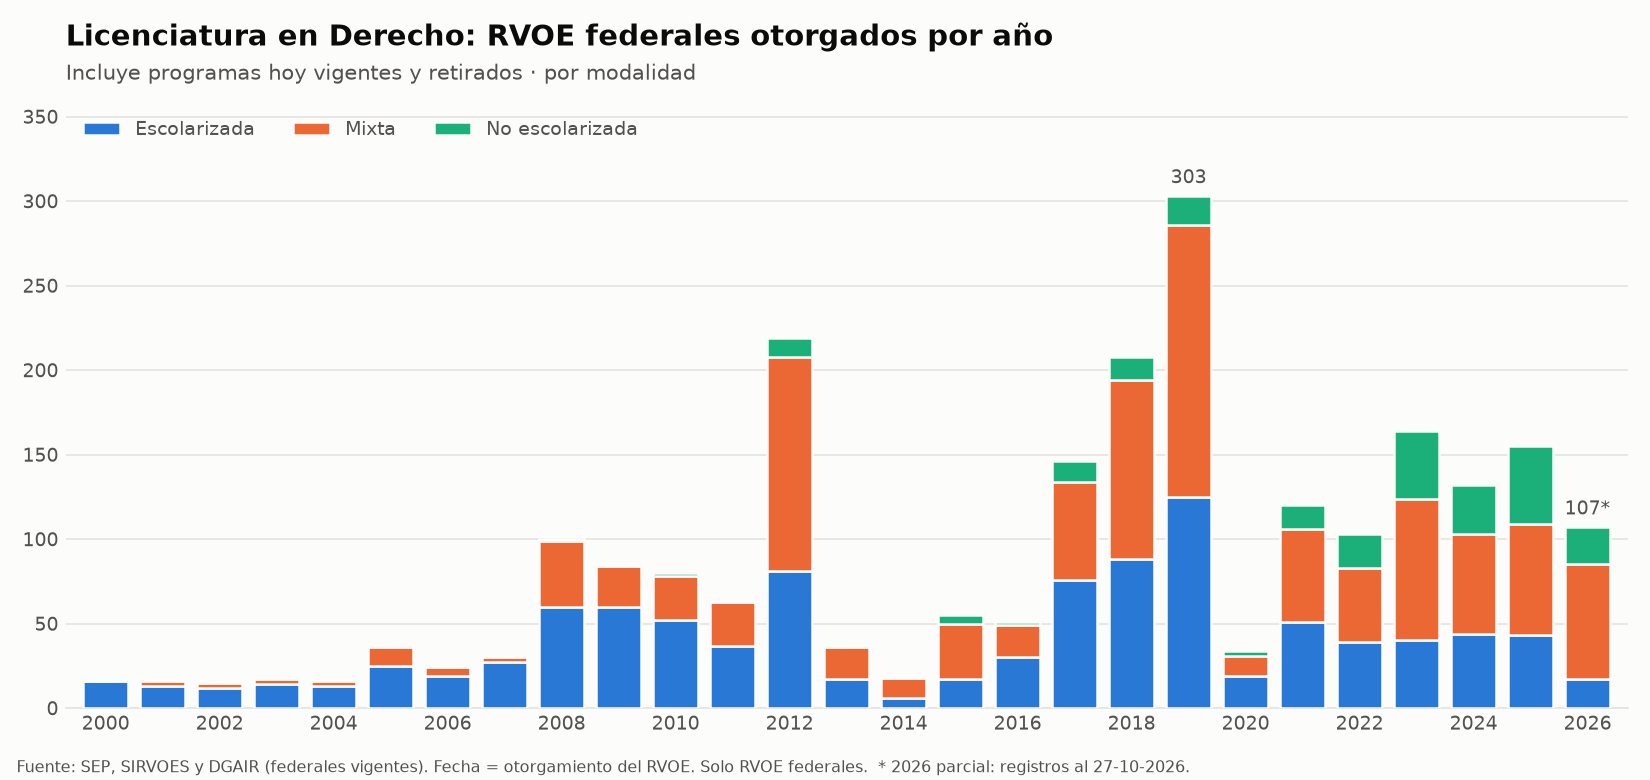
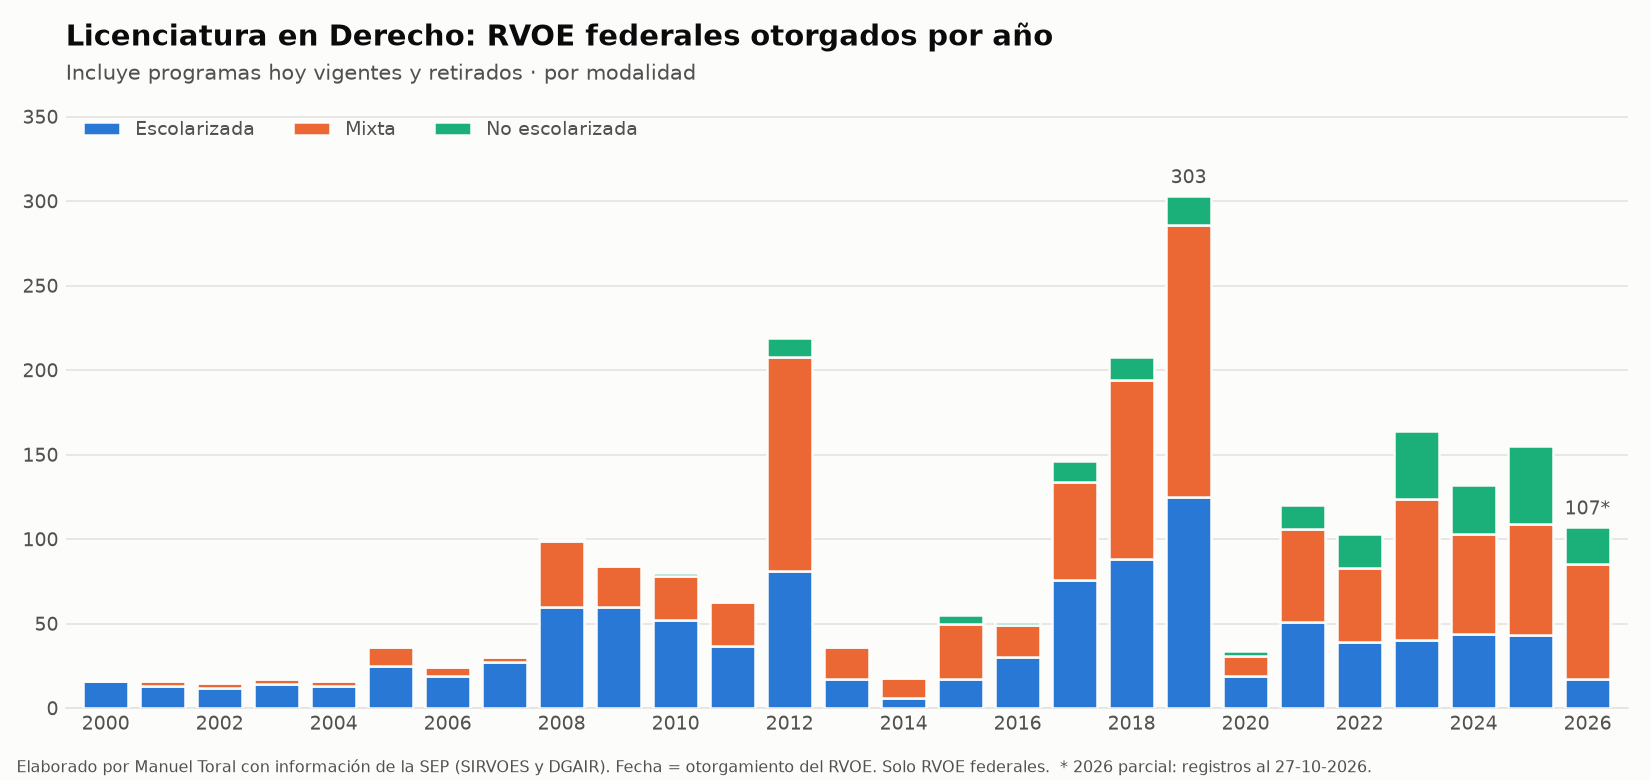
Crédito de autoría en gráficas y README

Changed region(s): [[0.0, 0.9538, 0.8345, 1.0]]

diff --git a/graficas.py b/graficas.py
@@ -11,7 +11,8 @@ import matplotlib.pyplot as plt
 
 DESDE, HASTA = 2000, 2026
 MODALIDADES = {"ESCOLARIZADA": "#2a78d6", "MIXTA": "#eb6834", "NO ESCOLARIZADA": "#1baf7a"}
-SURFACE, INK, INK2, GRID = "#fcfcfb", "#0b0b0b", "#52514e", "#e4e3df"
+CREDITO = "Elaborado por Manuel Toral con información de la SEP (SIRVOES y DGAIR)"
+SURFACE, INK, INK2, GRID ="#fcfcfb", "#0b0b0b", "#52514e", "#e4e3df"
 
 CARRERAS = {"DERECHO": "#2a78d6", "ADMINISTRACION DE EMPRESAS": "#eb6834", "PEDAGOGIA": "#1baf7a",
              "MERCADOTECNIA": "#eda100", "PSICOLOGIA": "#e87ba4"}
@@ -67,9 +68,9 @@ def graficar_lineas(t, out, ultima_fecha):
     ax.spines["bottom"].set_color(GRID)
     ax.set_xlim(DESDE - 0.5, HASTA + 0.3)
     ax.set_ylim(0, t.values.max() * 1.15)
-    fig.text(0.01, 0.01, f"Fuente: SEP, SIRVOES y DGAIR. Solo RVOE federales; nombre exacto del programa (sin variantes). "
+    fig.text(0.01, 0.01, f"{CREDITO}.\nSolo RVOE federales; nombre exacto del programa (sin variantes). "
              f"Solo se descuentan retiros registrados en SIRVOES.  {HASTA} al {ultima_fecha}.", fontsize=7.5, color=INK2)
-    fig.tight_layout(rect=(0, 0.03, 0.83, 1))
+    fig.tight_layout(rect=(0, 0.05, 0.83, 1))
     fig.savefig(out, facecolor=SURFACE)
 
 def tabla(der):
@@ -101,7 +102,7 @@ def graficar(t, out, ultima_fecha):
     ax.spines["bottom"].set_color(GRID)
     ax.set_xlim(DESDE - 0.7, HASTA + 0.7)
     ax.set_ylim(0, tot.max() * 1.18)
-    fig.text(0.01, 0.01, f"Fuente: SEP, SIRVOES y DGAIR (federales vigentes). Fecha = otorgamiento del RVOE. "
+    fig.text(0.01, 0.01, f"{CREDITO}. Fecha = otorgamiento del RVOE. "
              f"Solo RVOE federales.  * {HASTA} parcial: registros al {ultima_fecha}.",
              fontsize=7.5, color=INK2)
     fig.tight_layout(rect=(0, 0.03, 1, 1))

diff --git a/README.md b/README.md
@@ -1,5 +1,7 @@
 # RVOEs de educación superior en México
 
+*Elaborado por Manuel Toral con información de la SEP (SIRVOES y DGAIR).*
+
 Base de datos abierta de los **Reconocimientos de Validez Oficial de Estudios (RVOE) federales del tipo superior**. Se construye a partir de las dos fuentes públicas de la SEP y se cruzan entre sí.
 
 - **46,446 programas** en la tabla unificada: 39,907 vigentes y 6,539 retirados.
